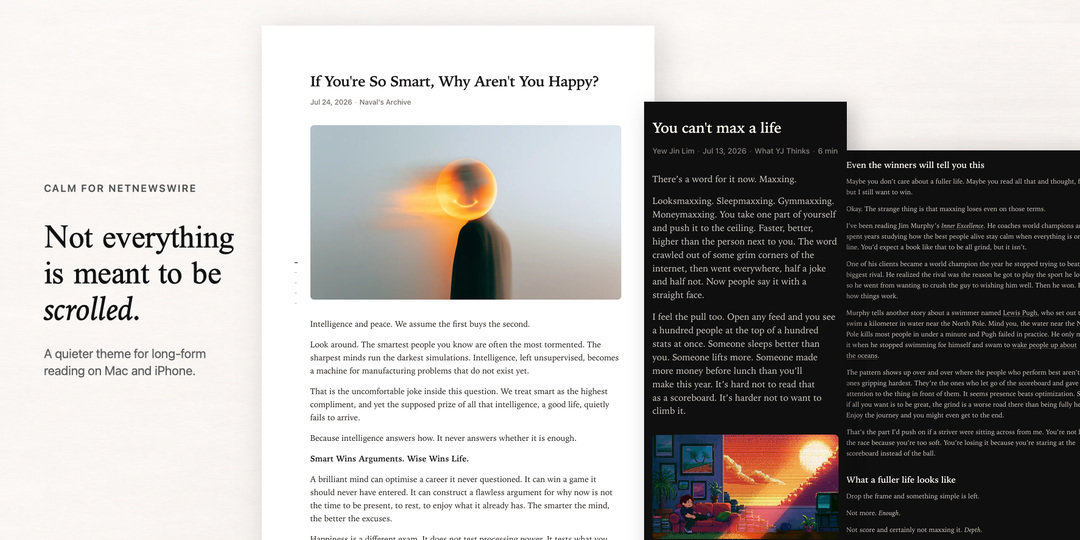
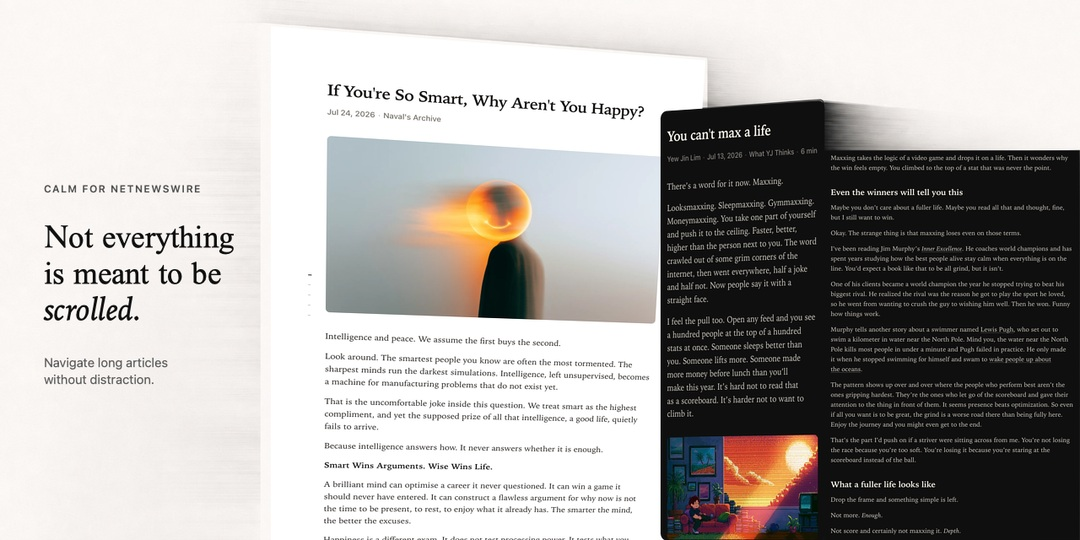
Clarify Calm product promise (#9)

diff --git a/docs/launch/2026-07-25-calm-product-positioning.md b/docs/launch/2026-07-25-calm-product-positioning.md
@@ -35,7 +35,7 @@ improves the article surface and leaves the rest of the app alone.
 
 ### Tagline
 
-Long-form navigation without reader chrome.
+Navigate long articles without distraction.
 
 ### One-line description
 
@@ -59,8 +59,8 @@ and a rail-free iPhone layout.
    uses coarse-pointer targets on iPad, and disappears with its listeners on
    phone, Split View, and short landscape layouts.
 4. **Everything else stays quiet.** Source identity is visible. Reading time
-   appears only when it is useful. Persistent progress, word count, and
-   statistics chrome are absent.
+   appears only when it is useful. The persistent progress bar, word count, and
+   statistics footer are absent.
 5. **The reading craft is consistent.** The narrow measure, serif rhythm, media
    treatment, light and dark palettes, Dynamic Type behavior, focus states, and
    reduced-motion behavior work as one system.
@@ -90,6 +90,7 @@ private, unindexed, or future theme has similar behavior.
 
 Safe public language:
 
+- "Navigate long articles without distraction."
 - "An adaptive, scrubbable reading map built for NetNewsWire."
 - "A reading map that adapts to the article, then gets out of the way."
 - "Distinct among the public NetNewsWire themes we reviewed."

diff --git a/docs/launch/2026-07-28-social-copy.md b/docs/launch/2026-07-28-social-copy.md
@@ -1,0 +1,31 @@
+# Calm launch copy
+
+Status: ready to share
+
+## LinkedIn
+
+Not everything is meant to be scrolled.
+
+I made Calm, a NetNewsWire theme that helps you navigate long articles without
+distraction.
+
+On Mac and iPad, Calm adds a reading map outside the article column. Structured
+pieces become destinations; simpler essays get five quiet markers. You can tap,
+click, or scrub to move through the article.
+
+On iPhone and compact layouts, the map disappears entirely.
+
+https://raisul.xyz/projects/calm
+
+Calm is open source and available now:
+https://github.com/raisulchowdhury/calm-nnwtheme
+
+## X
+
+Not everything is meant to be scrolled.
+
+Calm is a NetNewsWire theme that helps you navigate long articles without
+distraction. Its reading map adapts to the article on Mac and iPad, then
+disappears on iPhone and compact layouts.
+
+https://raisul.xyz/projects/calm

diff --git a/README.md b/README.md
@@ -2,10 +2,10 @@
 
 <picture>
   <source media="(max-width: 600px)" srcset="assets/social-preview-mobile.jpg">
-  <img src="assets/social-preview.jpg" alt="Calm for NetNewsWire with undistorted light, dark, and iPhone article screenshots and the line Not everything is meant to be scrolled">
+  <img src="assets/social-preview.jpg" alt="Calm for NetNewsWire with undistorted light, dark, and iPhone article screenshots and the line Navigate long articles without distraction">
 </picture>
 
-**Long-form navigation without reader chrome.**
+**Navigate long articles without distraction.**
 
 Calm is a NetNewsWire theme that adapts its reading map to the article. On wider
 Mac and iPad layouts, structured pieces become a heading map while simpler

diff --git a/docs/releases/2026-07-24-calm-1.4.0.md b/docs/releases/2026-07-24-calm-1.4.0.md
@@ -1,6 +1,6 @@
 # Calm 1.4.0
 
-**Long-form navigation without reader chrome.**
+**Navigate long articles without distraction.**
 
 Calm 1.4 adapts its reading map to the article. Structured pieces use major
 headings as destinations; simpler pieces use five quiet depth markers. Readers
